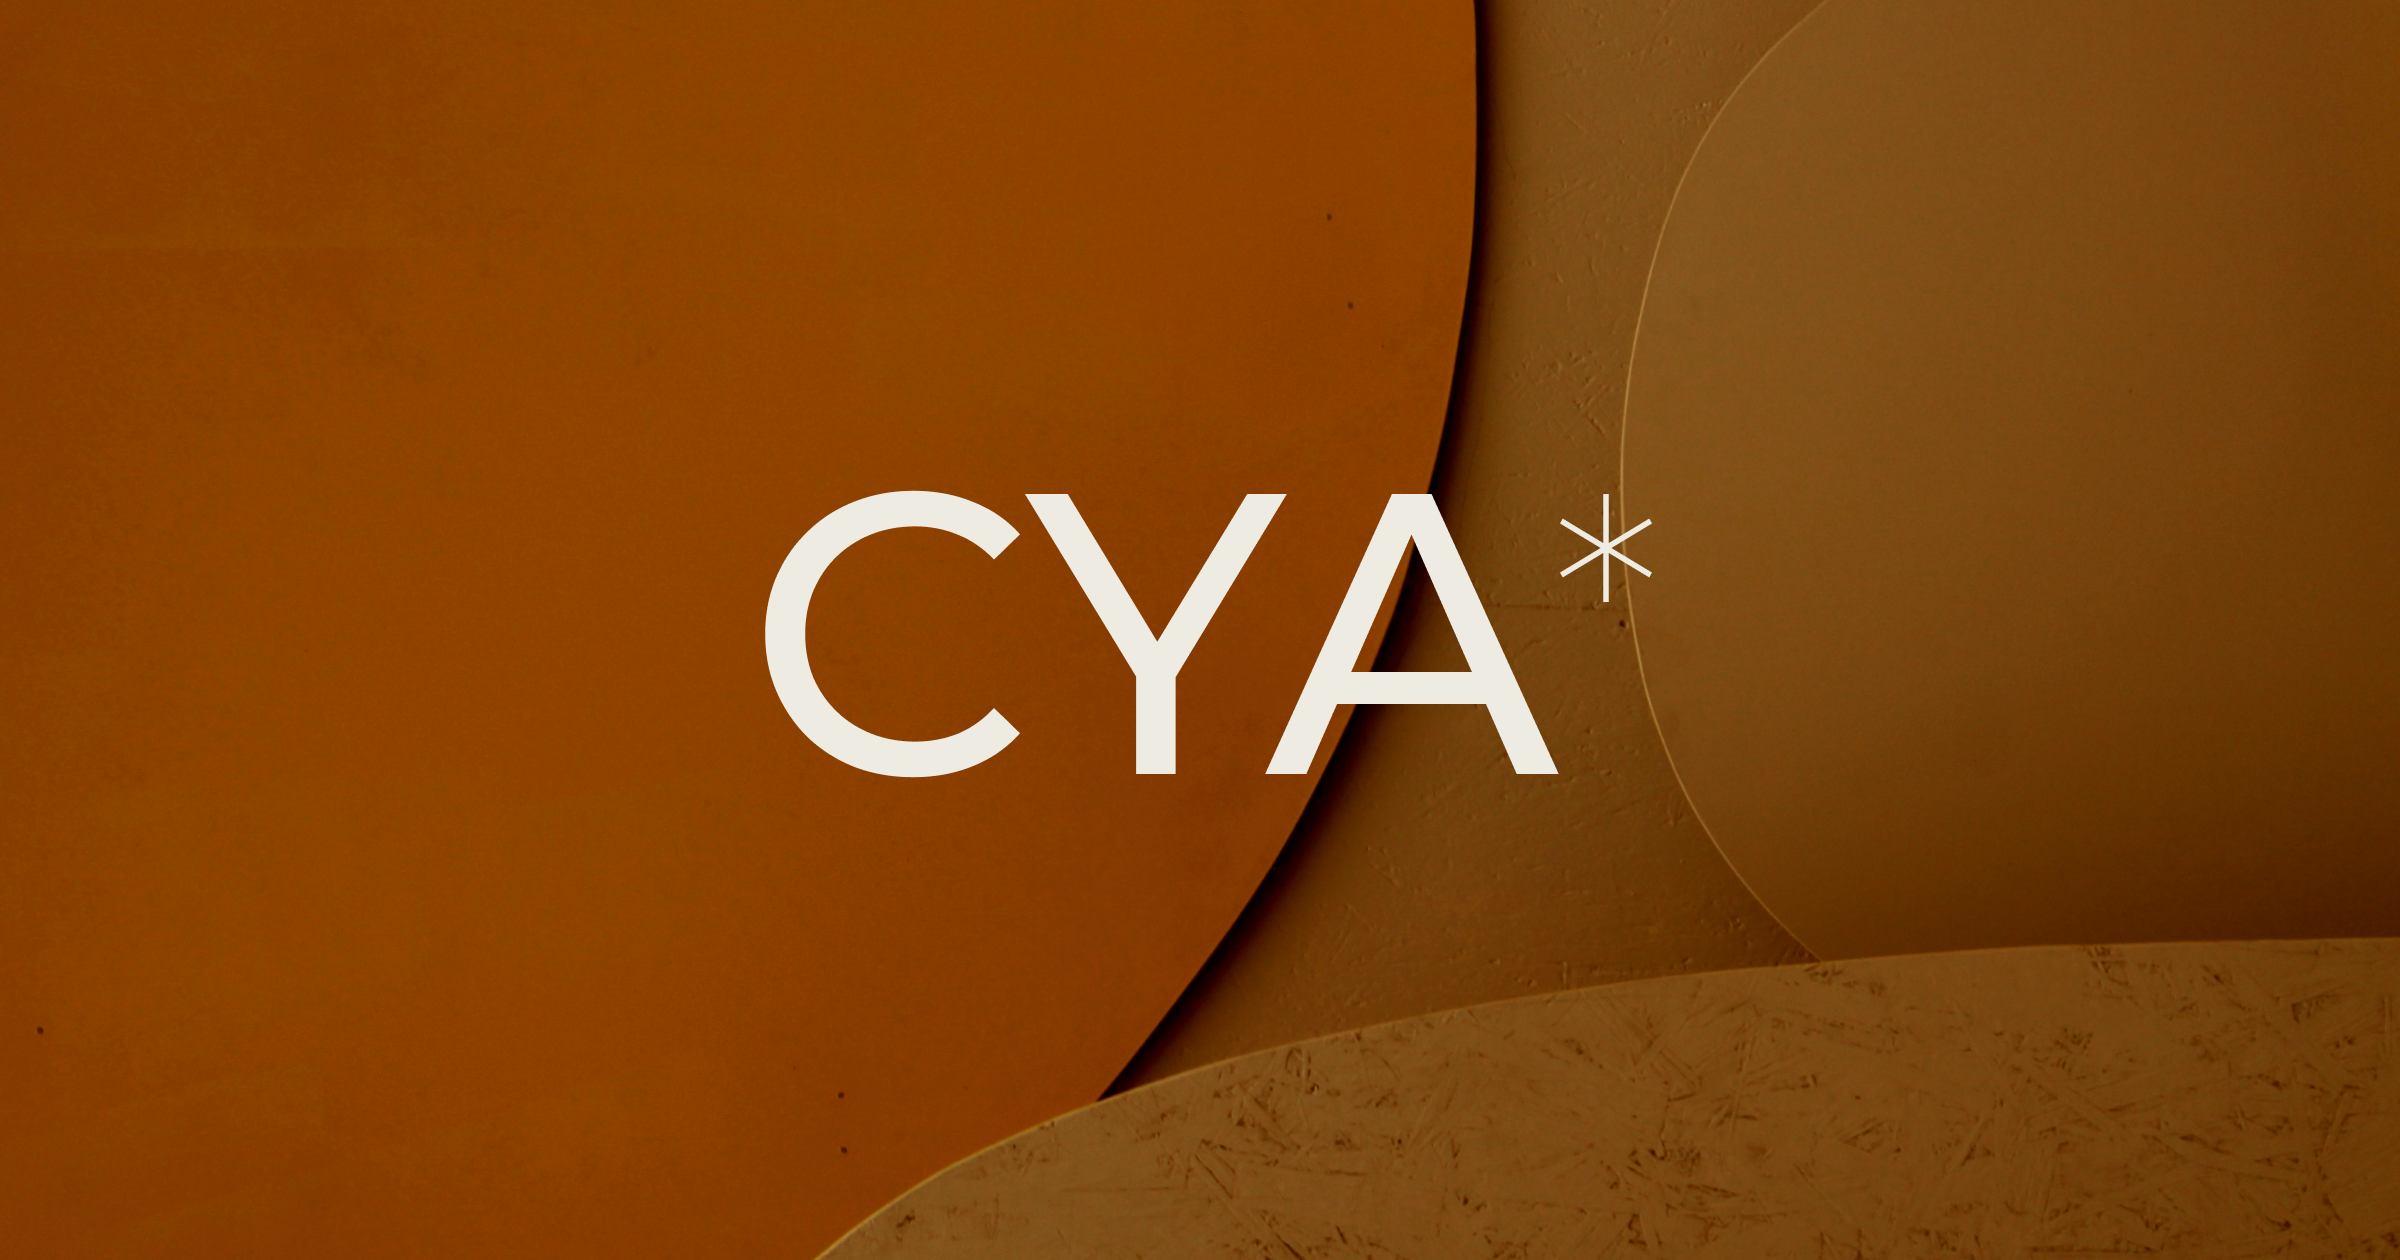
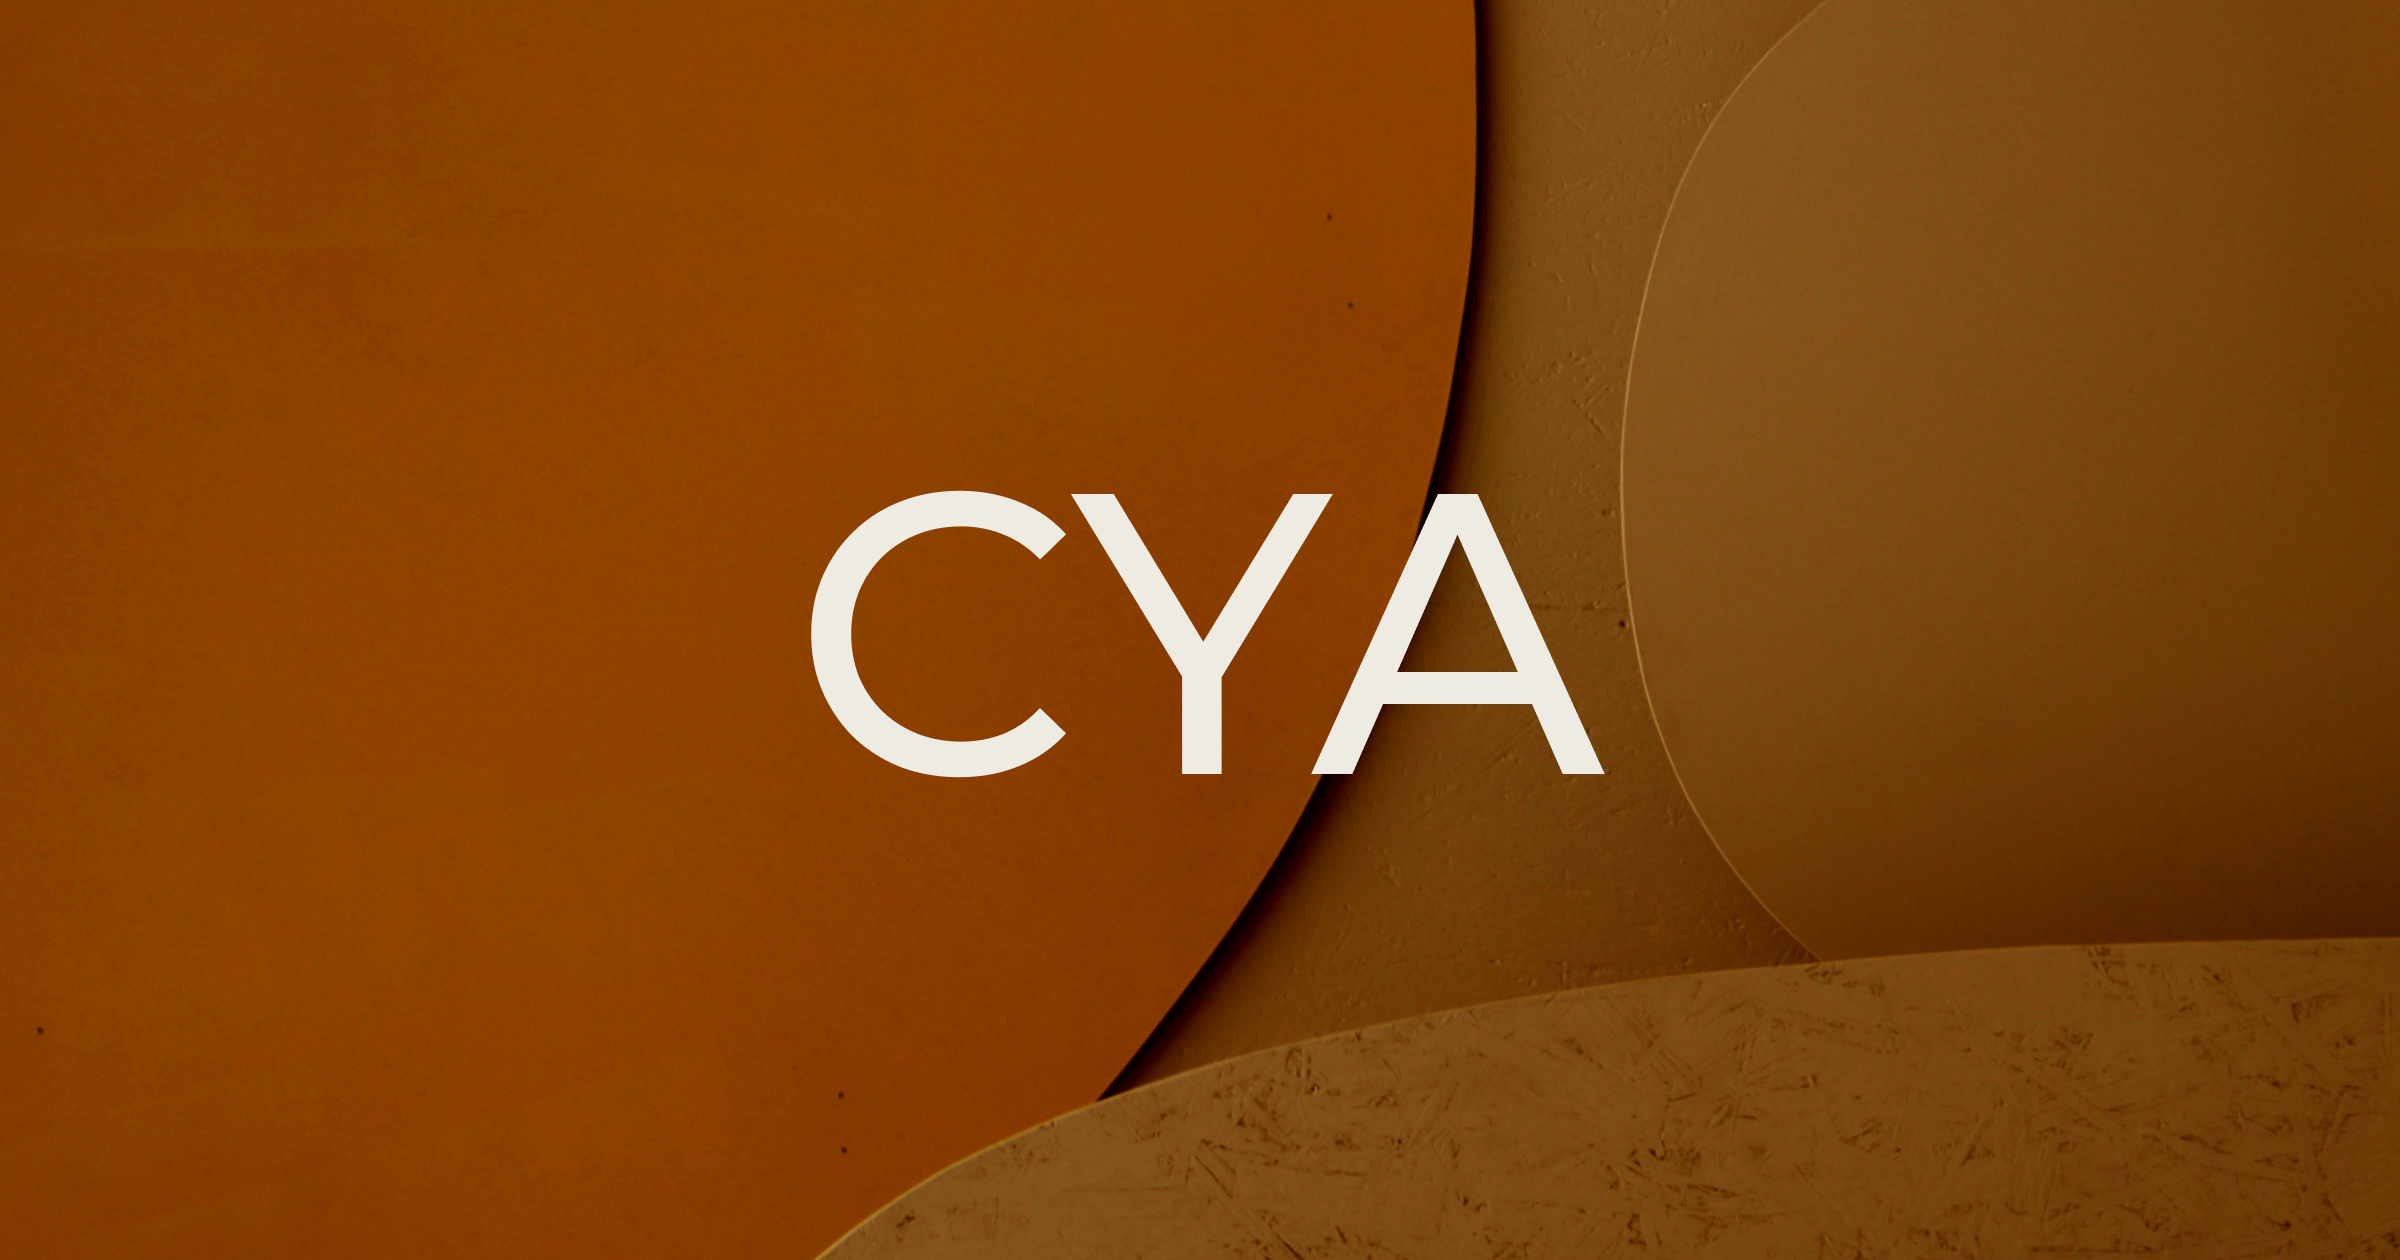
인트로 수정, 로고 파비콘 수정

Changed region(s): [[0.3125, 0.3714, 0.6875, 0.619]]

diff --git a/src/assets/scss/intro.module.scss b/src/assets/scss/intro.module.scss
@@ -9,13 +9,13 @@
   flex-direction: column;
   height: calc(var(--vh) * 100);
   min-height: calc(var(--vh) * 100);
-  background: $bg-gray;
+  background: #f9f5ef;
   overflow: hidden;
   position: relative;
   .user-title {
     @include flexbox(null, center);
     gap: 1rem;
-    color: $primary;
+    color: $intro;
     text-transform: uppercase;
     font-size: clamp(6rem, 8vw, 15rem);
     font-family: "Montserrat", sans-serif;
@@ -26,14 +26,14 @@
     left: 50%;
     .object {
       display: block;
-      @include same-size(clamp(4rem, 5vw, 10rem));
+      @include same-size(clamp(4rem, 5vw, 12rem));
       background: url("./../images/object_intro.svg") no-repeat center / 100%;
       animation: spinCircle 3s linear infinite;
     }
   }
   .line {
     height: 4px;
-    background: $primary;
+    background: $intro;
     position: fixed;
     top: 0;
     left: 0;

diff --git a/src/components/Intro.jsx b/src/components/Intro.jsx
@@ -53,9 +53,9 @@ export default function Intro({ onComplete }) {
             },
             "<"
           )
-          .set(line, { opacity: 0 }) // 라인 즉시 숨김
+          .set(line, { opacity: 0 })
           .to(containerRef.current, {
-            opacity: 0,
+            // opacity: 0,
             y: "-100vh",
             duration: 1,
             ease: "linear",

diff --git a/src/assets/scss/app.scss b/src/assets/scss/app.scss
@@ -21,7 +21,7 @@
       top: 50%;
       left: 50%;
       transform: translate(-50%, -50%);
-      background: url("./../images/main_circle_object_fix.svg") no-repeat center /
+      background: url("./../images/main_circle_object_fix.png") no-repeat center /
         100%;
       filter: blur(30px);
       -webkit-filter: blur(30px);

diff --git a/src/assets/scss/Header.module.scss b/src/assets/scss/Header.module.scss
@@ -107,7 +107,7 @@
             &.focus {
               position: absolute;
               transform: translateY(150%);
-              color: $primary;
+              color: #c4d5f7;
               @include tablet {
                 display: none;
               }

diff --git a/src/assets/scss/variable.scss b/src/assets/scss/variable.scss
@@ -1,6 +1,6 @@
 // variable.scss
 
-$primary: #535146;
+$intro: #171010;
 $black: #000;
 $white: #fff;
 $bg-gray: #f5f5f5;
